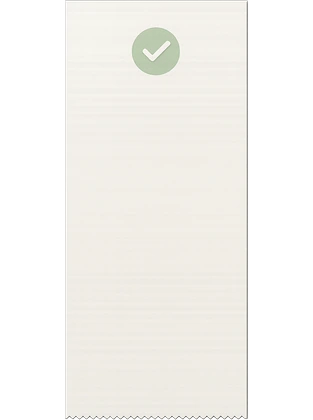
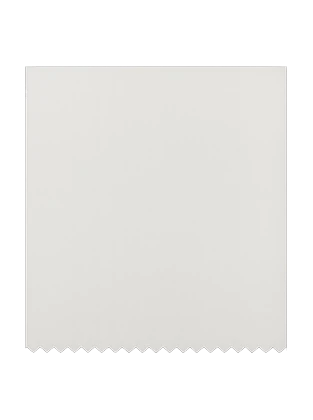
peek: the receipt simpler still — a wider plain white slip with a zigzag tear at the bottom, no stamp and no shadow (none of the renders have one), $40 larger and a simple green check under it, nothing else

Changed region(s): [[0.0575, 0.0, 0.9201, 1.0], [0.4026, 0.0619, 0.5751, 0.1857]]

diff --git a/peek/index.html b/peek/index.html
@@ -2143,7 +2143,7 @@ const POOL = {
   // the call: the EOB you sent, the phone it's on, and the receipt it leaves (see "the call")
   eob:        { name: 'Your EOB',         w: 96, re: null, kind: 'doc' },
   phone:      { name: 'The call',         w: 104, re: null, kind: 'call' },
-  receipt:    { name: 'Result',           w: 124, re: null, kind: 'result' },   // a tall slip: taller than the old sheet so it reads at the same size
+  receipt:    { name: 'Result',           w: 112, re: null, kind: 'result' },
   thermo:     { name: 'Thermometer',      w: 114, re: null, kind: 'thermo' },   // off (John: remove the thermometer) — kept, with re: the timer's regex to bring it back
 };
 const critters = [];
@@ -2165,7 +2165,7 @@ function poolInit() {
   return true;
 }
 const POOL_GAP = 2;   // the invisible margin round every shape in the pile
-const HULLS = {"receipt":[[-0.2179,-0.5],[0.2155,-0.5],[0.2155,0.4952],[0.194,0.4976],[-0.1845,0.4976],[-0.2179,0.4952]],"eob":[[-0.3725,-0.48],[-0.3675,-0.49],[-0.3625,-0.495],[-0.3525,-0.5],[0.3475,-0.5],[0.3625,-0.495],[0.3675,-0.49],[0.3725,-0.48],[0.3725,0.4],[0.3675,0.425],[0.3625,0.44],[0.3525,0.46],[0.3325,0.48],[0.3125,0.49],[0.2975,0.495],[0.2675,0.5],[-0.3375,0.5],[-0.3575,0.495],[-0.3675,0.485],[-0.3725,0.475]],"phone":[[-0.5,-0.1825],[-0.475,-0.2175],[-0.36,-0.3075],[-0.275,-0.3375],[-0.165,-0.3625],[-0.05,-0.3775],[0.145,-0.3775],[0.195,-0.3725],[0.31,-0.3525],[0.385,-0.3325],[0.45,-0.3075],[0.485,-0.2625],[0.5,-0.2125],[0.5,-0.1425],[0.38,0.3025],[0.345,0.3625],[0.3,0.3775],[-0.23,0.3775],[-0.27,0.3725],[-0.465,0.3025],[-0.49,0.2675],[-0.5,0.2075]],"stopwatch":[[-0.31,0.08],[-0.285,-0.01],[-0.095,-0.42],[-0.05,-0.475],[0.01,-0.5],[0.075,-0.5],[0.125,-0.48],[0.155,-0.455],[0.335,-0.22],[0.395,0.095],[0.395,0.17],[0.385,0.225],[0.37,0.27],[0.325,0.35],[0.26,0.415],[0.18,0.485],[0.07,0.495],[-0.065,0.495],[-0.15,0.49],[-0.225,0.475],[-0.3,0.235],[-0.31,0.19]],"cookbook":[[-0.4375,-0.49],[-0.4325,-0.495],[0.1025,-0.5],[0.3125,-0.5],[0.3525,-0.495],[0.3575,0.44],[0.3575,0.46],[0.3375,0.48],[0.3125,0.485],[-0.3725,0.5],[-0.4075,0.5],[-0.4375,0.465]],"map":[[-0.5,0.25],[-0.465,0.035],[-0.415,-0.265],[-0.405,-0.315],[-0.39,-0.335],[-0.01,-0.425],[0.05,-0.425],[0.38,-0.3],[0.405,-0.27],[0.455,0.005],[0.495,0.25],[0.5,0.3],[0.48,0.35],[0.425,0.385],[0.33,0.41],[0.24,0.42],[0.125,0.425],[-0.09,0.425],[-0.215,0.42],[-0.295,0.405],[-0.49,0.31],[-0.5,0.3]],"pail":[[-0.475,-0.11],[-0.44,-0.24],[-0.4,-0.325],[-0.35,-0.375],[-0.245,-0.44],[-0.115,-0.48],[0.06,-0.5],[0.18,-0.49],[0.24,-0.46],[0.385,-0.335],[0.44,-0.265],[0.455,-0.21],[0.475,0.175],[0.46,0.305],[0.41,0.365],[0.33,0.425],[0.215,0.47],[-0.03,0.5],[-0.16,0.475],[-0.27,0.345],[-0.44,0.03],[-0.475,-0.06]],"jellyfish":[[-0.405,-0.105],[-0.31,-0.33],[-0.235,-0.42],[-0.16,-0.47],[-0.085,-0.495],[0.0,-0.5],[0.075,-0.49],[0.17,-0.455],[0.24,-0.405],[0.28,-0.36],[0.32,-0.295],[0.405,-0.105],[0.405,-0.065],[0.36,0.28],[0.33,0.355],[0.23,0.49],[-0.01,0.5],[-0.165,0.475],[-0.21,0.435],[-0.31,0.285],[-0.325,0.245],[-0.41,-0.06]],"sponge":[[-0.435,0.125],[-0.32,-0.33],[-0.305,-0.36],[-0.26,-0.395],[-0.055,-0.49],[0.035,-0.5],[0.075,-0.485],[0.24,-0.335],[0.265,-0.305],[0.36,-0.125],[0.375,-0.085],[0.43,0.1],[0.435,0.185],[0.425,0.36],[0.37,0.42],[0.3,0.455],[0.22,0.48],[0.125,0.5],[0.035,0.495],[-0.26,0.445],[-0.315,0.405],[-0.435,0.17]],"sanddollar":[[-0.49,-0.07],[-0.455,-0.18],[-0.405,-0.275],[-0.31,-0.38],[-0.24,-0.43],[-0.125,-0.475],[-0.015,-0.495],[0.16,-0.475],[0.265,-0.425],[0.38,-0.32],[0.445,-0.22],[0.49,-0.1],[0.5,0.055],[0.485,0.135],[0.43,0.25],[0.295,0.43],[0.25,0.475],[0.145,0.495],[-0.33,0.445],[-0.395,0.42],[-0.48,0.185],[-0.5,0.095]],"kelp":[[-0.2925,-0.235],[-0.1975,-0.385],[-0.1425,-0.465],[-0.1175,-0.485],[0.0175,-0.5],[0.0475,-0.5],[0.2625,-0.435],[0.2775,-0.42],[0.2925,-0.25],[0.2925,-0.2],[0.1725,0.345],[0.1625,0.37],[0.1525,0.385],[0.0775,0.485],[0.0575,0.5],[0.0225,0.5],[0.0025,0.485],[-0.0825,0.375],[-0.0925,0.355],[-0.2825,-0.07],[-0.2875,-0.085],[-0.2925,-0.195]],"shrimp":[[-0.5,-0.3475],[-0.45,-0.4025],[-0.105,-0.4225],[-0.055,-0.4225],[-0.035,-0.4175],[0.04,-0.3875],[0.09,-0.3575],[0.135,-0.3175],[0.49,0.2325],[0.5,0.2525],[0.5,0.2925],[0.46,0.3625],[0.43,0.3825],[0.395,0.3925],[0.36,0.3975],[0.05,0.4225],[-0.115,0.4225],[-0.175,0.4075],[-0.235,0.3725],[-0.26,0.3425],[-0.49,-0.2775],[-0.5,-0.3125]],"chiton":[[-0.495,0.065],[-0.465,-0.025],[-0.395,-0.15],[-0.32,-0.245],[-0.22,-0.335],[-0.1,-0.42],[0.03,-0.475],[0.085,-0.485],[0.195,-0.48],[0.295,-0.45],[0.35,-0.42],[0.405,-0.37],[0.44,-0.32],[0.495,-0.19],[0.495,-0.085],[0.46,0.2],[0.415,0.27],[0.13,0.47],[0.06,0.485],[-0.415,0.38],[-0.47,0.32],[-0.5,0.13]],"snail":[[-0.49,-0.065],[-0.48,-0.145],[-0.445,-0.25],[-0.37,-0.355],[-0.305,-0.405],[-0.245,-0.435],[-0.145,-0.46],[-0.065,-0.46],[0.045,-0.43],[0.1,-0.4],[0.49,-0.14],[0.5,-0.09],[0.485,0.25],[0.455,0.325],[0.36,0.42],[0.31,0.445],[0.19,0.46],[-0.135,0.45],[-0.32,0.41],[-0.41,0.38],[-0.48,0.34],[-0.495,0.31]],"limpet":[[-0.5,0.09],[-0.465,0.025],[-0.305,-0.19],[-0.165,-0.36],[-0.09,-0.435],[-0.015,-0.465],[0.02,-0.465],[0.075,-0.435],[0.135,-0.38],[0.22,-0.285],[0.475,0.04],[0.5,0.09],[0.495,0.14],[0.42,0.33],[0.375,0.39],[0.325,0.415],[0.215,0.445],[-0.045,0.465],[-0.13,0.45],[-0.34,0.315],[-0.38,0.28],[-0.475,0.17]],"barnacle":[[-0.4375,0.13],[-0.4125,0.035],[-0.2875,-0.33],[-0.2575,-0.37],[-0.1175,-0.47],[-0.0325,-0.5],[0.0225,-0.475],[0.2775,-0.32],[0.3575,-0.245],[0.3825,-0.195],[0.4275,-0.025],[0.4425,0.065],[0.4375,0.2],[0.3825,0.365],[0.2975,0.455],[0.2125,0.49],[0.1475,0.5],[0.0375,0.495],[-0.1875,0.465],[-0.2925,0.425],[-0.4075,0.315],[-0.4375,0.24]],"mussel":[[-0.495,0.055],[-0.45,-0.065],[-0.32,-0.23],[-0.18,-0.36],[-0.085,-0.425],[-0.01,-0.465],[0.12,-0.5],[0.21,-0.495],[0.275,-0.445],[0.485,-0.03],[0.49,-0.015],[0.495,0.25],[0.465,0.325],[0.34,0.455],[0.27,0.485],[0.15,0.5],[-0.01,0.485],[-0.155,0.455],[-0.25,0.42],[-0.39,0.345],[-0.435,0.295],[-0.495,0.115]],"recipe":[[-0.3675,-0.455],[-0.3575,-0.475],[-0.3475,-0.485],[-0.3175,-0.5],[0.3175,-0.5],[0.3375,-0.49],[0.3575,-0.47],[0.3675,-0.45],[0.3675,0.45],[0.3525,0.48],[0.3425,0.49],[0.3325,0.495],[0.3175,0.5],[-0.3175,0.5],[-0.3325,0.495],[-0.3425,0.49],[-0.3575,0.475],[-0.3675,0.455]],"injector":[[-0.3,-0.25],[-0.285,-0.275],[-0.235,-0.335],[-0.205,-0.365],[-0.04,-0.49],[0.0,-0.5],[0.15,-0.5],[0.19,-0.49],[0.22,-0.46],[0.3,-0.205],[0.3,-0.12],[0.29,0.145],[0.23,0.435],[0.215,0.46],[0.175,0.48],[0.105,0.5],[0.045,0.5],[0.025,0.49],[-0.045,0.37],[-0.06,0.34],[-0.145,0.155],[-0.3,-0.215]],"camshaft":[[-0.5,-0.02],[-0.44,-0.13],[-0.41,-0.15],[-0.14,-0.195],[0.34,-0.27],[0.39,-0.27],[0.41,-0.26],[0.45,-0.22],[0.48,-0.165],[0.5,-0.09],[0.5,0.0],[0.475,0.07],[0.415,0.14],[0.225,0.195],[-0.05,0.245],[-0.29,0.27],[-0.33,0.27],[-0.375,0.255],[-0.41,0.23],[-0.465,0.16],[-0.485,0.12],[-0.5,0.065]],"valve":[[-0.1675,0.405],[-0.0475,-0.495],[-0.0425,-0.5],[0.0375,-0.5],[0.0425,-0.495],[0.1675,0.425],[0.1675,0.44],[0.1625,0.45],[0.1475,0.465],[0.1325,0.475],[0.1225,0.48],[0.0775,0.495],[0.0475,0.5],[-0.0525,0.5],[-0.0775,0.495],[-0.0975,0.49],[-0.1125,0.485],[-0.1425,0.47],[-0.1625,0.45],[-0.1675,0.44]],"crankshaft":[[-0.5,-0.035],[-0.49,-0.065],[-0.47,-0.09],[-0.18,-0.25],[0.05,-0.25],[0.075,-0.24],[0.49,-0.005],[0.5,0.005],[0.5,0.065],[0.49,0.09],[0.305,0.225],[0.295,0.23],[0.255,0.24],[0.185,0.25],[0.115,0.25],[-0.215,0.225],[-0.32,0.205],[-0.38,0.19],[-0.405,0.18],[-0.41,0.175],[-0.49,0.05],[-0.5,0.025]],"sparkplug":[[-0.205,0.005],[-0.065,-0.465],[-0.055,-0.49],[-0.04,-0.5],[0.04,-0.5],[0.06,-0.48],[0.065,-0.465],[0.205,0.005],[0.205,0.095],[0.19,0.215],[0.12,0.435],[0.115,0.44],[0.03,0.485],[0.02,0.49],[0.0,0.495],[-0.03,0.5],[-0.095,0.5],[-0.115,0.495],[-0.13,0.49],[-0.14,0.485],[-0.19,0.215],[-0.205,0.095]],"piston":[[-0.25,-0.405],[-0.24,-0.455],[-0.225,-0.47],[-0.185,-0.485],[-0.09,-0.5],[0.09,-0.5],[0.185,-0.485],[0.215,-0.475],[0.24,-0.455],[0.25,-0.405],[0.25,-0.32],[0.245,-0.13],[0.21,0.385],[0.18,0.49],[0.16,0.5],[0.0,0.495],[-0.165,0.47],[-0.195,0.455],[-0.215,0.375],[-0.22,0.335],[-0.245,-0.125],[-0.25,-0.32]],"groceries":[[-0.41,-0.49],[-0.4,-0.5],[0.365,-0.5],[0.375,-0.495],[0.38,-0.485],[0.405,0.46],[0.405,0.47],[0.395,0.48],[0.375,0.49],[0.355,0.495],[0.305,0.5],[-0.32,0.5],[-0.36,0.495],[-0.38,0.48],[-0.4,0.46],[-0.405,0.45],[-0.41,0.435]],"pin":[[-0.335,-0.225],[-0.315,-0.3],[-0.29,-0.35],[-0.225,-0.425],[-0.175,-0.46],[-0.105,-0.49],[-0.06,-0.5],[0.055,-0.5],[0.1,-0.49],[0.165,-0.465],[0.24,-0.41],[0.275,-0.37],[0.315,-0.3],[0.335,-0.225],[0.335,-0.13],[0.31,-0.035],[0.115,0.49],[0.03,0.5],[-0.01,0.5],[-0.27,0.05],[-0.31,-0.035],[-0.335,-0.13]],"calendar":[[-0.38,-0.295],[-0.375,-0.315],[-0.365,-0.335],[-0.355,-0.35],[-0.345,-0.36],[-0.2,-0.5],[0.17,-0.5],[0.33,-0.335],[0.34,-0.315],[0.345,-0.29],[0.36,0.465],[0.36,0.485],[0.32,0.495],[0.26,0.5],[-0.165,0.5],[-0.295,0.495],[-0.32,0.485],[-0.335,0.475],[-0.35,0.46],[-0.365,0.43],[-0.37,0.365],[-0.38,-0.175]],"clipboard":[[-0.34,-0.34],[-0.33,-0.36],[-0.295,-0.395],[-0.285,-0.4],[-0.03,-0.5],[0.03,-0.5],[0.285,-0.4],[0.31,-0.385],[0.32,-0.375],[0.33,-0.36],[0.34,-0.34],[0.34,0.43],[0.335,0.445],[0.325,0.46],[0.3,0.485],[0.28,0.495],[0.265,0.5],[-0.265,0.5],[-0.28,0.495],[-0.3,0.485],[-0.325,0.46],[-0.34,0.43]],"thermo":[[-0.345,-0.21],[-0.31,-0.32],[-0.27,-0.38],[-0.225,-0.425],[-0.165,-0.465],[-0.13,-0.48],[-0.05,-0.5],[0.08,-0.495],[0.165,-0.465],[0.225,-0.425],[0.275,-0.375],[0.305,-0.33],[0.335,-0.26],[0.345,-0.21],[0.345,-0.11],[0.325,-0.03],[0.295,0.03],[0.01,0.495],[-0.005,0.5],[-0.305,0.01],[-0.325,-0.035],[-0.345,-0.115]],"anemone":[[-0.5,-0.1625],[-0.445,-0.3125],[-0.335,-0.4225],[-0.16,-0.4925],[-0.03,-0.4925],[0.2,-0.4875],[0.375,-0.3875],[0.39,-0.3725],[0.475,-0.2025],[0.5,-0.1025],[0.5,-0.0725],[0.47,0.0275],[0.36,0.3175],[0.3,0.3925],[0.22,0.4425],[0.145,0.4625],[0.035,0.4725],[-0.07,0.4725],[-0.175,0.4625],[-0.305,0.4325],[-0.33,0.4075],[-0.48,-0.0075]],"starfish":[[-0.4575,-0.215],[-0.4375,-0.24],[-0.4125,-0.255],[-0.0075,-0.495],[0.0075,-0.5],[0.0275,-0.5],[0.0575,-0.49],[0.4325,-0.17],[0.4525,-0.15],[0.4625,-0.125],[0.4625,-0.095],[0.3075,0.445],[0.2825,0.47],[0.2675,0.48],[0.2475,0.485],[0.1825,0.485],[-0.3375,0.405],[-0.3725,0.395],[-0.3925,0.38],[-0.4225,0.35],[-0.4275,0.34],[-0.4625,-0.185]],"crab":[[-0.485,-0.095],[-0.475,-0.17],[-0.44,-0.275],[-0.345,-0.4],[-0.26,-0.45],[-0.115,-0.49],[-0.04,-0.49],[0.04,-0.47],[0.155,-0.395],[0.31,-0.245],[0.325,-0.22],[0.47,0.16],[0.48,0.285],[0.445,0.365],[0.41,0.4],[0.35,0.425],[0.075,0.49],[0.015,0.495],[-0.205,0.45],[-0.33,0.4],[-0.36,0.37],[-0.465,0.05]],"nudibranch":[[-0.5,0.09],[-0.405,-0.335],[-0.385,-0.355],[-0.09,-0.415],[0.065,-0.435],[0.085,-0.435],[0.23,-0.385],[0.355,-0.325],[0.365,-0.315],[0.41,-0.215],[0.5,0.08],[0.49,0.12],[0.36,0.3],[0.32,0.335],[0.0,0.41],[-0.065,0.415],[-0.17,0.4],[-0.305,0.37],[-0.34,0.355],[-0.35,0.345],[-0.49,0.14],[-0.5,0.11]],"urchin":[[-0.4975,-0.105],[-0.4375,-0.245],[-0.3075,-0.4],[-0.2925,-0.415],[-0.1475,-0.49],[0.0675,-0.5],[0.2275,-0.44],[0.3575,-0.345],[0.3675,-0.335],[0.4625,-0.165],[0.4975,0.075],[0.4975,0.095],[0.3775,0.335],[0.2625,0.425],[0.2275,0.435],[-0.0525,0.465],[-0.1275,0.47],[-0.2075,0.47],[-0.3125,0.45],[-0.3675,0.43],[-0.4125,0.395],[-0.4925,0.08]],"cucumber":[[-0.46,-0.1275],[-0.425,-0.1875],[-0.34,-0.2575],[-0.175,-0.3075],[0.02,-0.3075],[0.12,-0.2925],[0.275,-0.2375],[0.395,-0.1525],[0.405,-0.1425],[0.46,-0.0575],[0.49,0.0175],[0.5,0.0875],[0.495,0.1175],[0.43,0.2025],[0.4,0.2175],[0.33,0.2325],[-0.08,0.2825],[-0.19,0.2825],[-0.345,0.2675],[-0.405,0.2575],[-0.43,0.2425],[-0.455,-0.0425]],"sculpin":[[-0.485,0.0675],[-0.44,-0.0425],[-0.385,-0.1225],[-0.34,-0.1675],[-0.13,-0.3325],[-0.07,-0.3525],[0.405,-0.2375],[0.45,-0.2075],[0.48,-0.1225],[0.48,-0.0225],[0.465,0.0375],[0.435,0.0925],[0.195,0.3375],[0.16,0.3475],[0.075,0.3525],[0.03,0.3475],[-0.255,0.2975],[-0.3,0.2875],[-0.39,0.2525],[-0.43,0.2275],[-0.475,0.1725],[-0.49,0.1375]],"octopus":[[-0.495,0.1075],[-0.41,-0.0675],[-0.27,-0.3225],[-0.205,-0.3975],[-0.135,-0.4375],[-0.085,-0.4525],[0.0,-0.4575],[0.08,-0.4425],[0.19,-0.3875],[0.235,-0.3375],[0.4,-0.0275],[0.41,-0.0025],[0.435,0.1575],[0.435,0.3125],[0.42,0.3375],[0.335,0.3825],[0.24,0.4075],[-0.13,0.4325],[-0.2,0.4225],[-0.4,0.2925],[-0.455,0.2425],[-0.485,0.1925]],"timer":[[-0.4525,-0.105],[-0.4375,-0.185],[-0.4025,-0.275],[-0.3675,-0.33],[-0.3075,-0.395],[-0.2175,-0.455],[-0.1375,-0.485],[-0.0575,-0.5],[0.0625,-0.5],[0.1375,-0.485],[0.2175,-0.455],[0.3075,-0.395],[0.3825,-0.31],[0.4175,-0.245],[0.4525,-0.115],[0.4525,0.35],[0.4325,0.395],[0.3325,0.495],[-0.3375,0.495],[-0.3625,0.485],[-0.4425,0.38],[-0.4525,0.35]]};   // each plush's outline: its picture's convex hull, as fractions of the square element from its centre
+const HULLS = {"receipt":[[-0.3131,-0.3429],[0.3083,-0.3429],[0.3083,0.3286],[0.294,0.3381],[-0.294,0.3381],[-0.2988,0.3357],[-0.3131,0.3262]],"eob":[[-0.3725,-0.48],[-0.3675,-0.49],[-0.3625,-0.495],[-0.3525,-0.5],[0.3475,-0.5],[0.3625,-0.495],[0.3675,-0.49],[0.3725,-0.48],[0.3725,0.4],[0.3675,0.425],[0.3625,0.44],[0.3525,0.46],[0.3325,0.48],[0.3125,0.49],[0.2975,0.495],[0.2675,0.5],[-0.3375,0.5],[-0.3575,0.495],[-0.3675,0.485],[-0.3725,0.475]],"phone":[[-0.5,-0.1825],[-0.475,-0.2175],[-0.36,-0.3075],[-0.275,-0.3375],[-0.165,-0.3625],[-0.05,-0.3775],[0.145,-0.3775],[0.195,-0.3725],[0.31,-0.3525],[0.385,-0.3325],[0.45,-0.3075],[0.485,-0.2625],[0.5,-0.2125],[0.5,-0.1425],[0.38,0.3025],[0.345,0.3625],[0.3,0.3775],[-0.23,0.3775],[-0.27,0.3725],[-0.465,0.3025],[-0.49,0.2675],[-0.5,0.2075]],"stopwatch":[[-0.31,0.08],[-0.285,-0.01],[-0.095,-0.42],[-0.05,-0.475],[0.01,-0.5],[0.075,-0.5],[0.125,-0.48],[0.155,-0.455],[0.335,-0.22],[0.395,0.095],[0.395,0.17],[0.385,0.225],[0.37,0.27],[0.325,0.35],[0.26,0.415],[0.18,0.485],[0.07,0.495],[-0.065,0.495],[-0.15,0.49],[-0.225,0.475],[-0.3,0.235],[-0.31,0.19]],"cookbook":[[-0.4375,-0.49],[-0.4325,-0.495],[0.1025,-0.5],[0.3125,-0.5],[0.3525,-0.495],[0.3575,0.44],[0.3575,0.46],[0.3375,0.48],[0.3125,0.485],[-0.3725,0.5],[-0.4075,0.5],[-0.4375,0.465]],"map":[[-0.5,0.25],[-0.465,0.035],[-0.415,-0.265],[-0.405,-0.315],[-0.39,-0.335],[-0.01,-0.425],[0.05,-0.425],[0.38,-0.3],[0.405,-0.27],[0.455,0.005],[0.495,0.25],[0.5,0.3],[0.48,0.35],[0.425,0.385],[0.33,0.41],[0.24,0.42],[0.125,0.425],[-0.09,0.425],[-0.215,0.42],[-0.295,0.405],[-0.49,0.31],[-0.5,0.3]],"pail":[[-0.475,-0.11],[-0.44,-0.24],[-0.4,-0.325],[-0.35,-0.375],[-0.245,-0.44],[-0.115,-0.48],[0.06,-0.5],[0.18,-0.49],[0.24,-0.46],[0.385,-0.335],[0.44,-0.265],[0.455,-0.21],[0.475,0.175],[0.46,0.305],[0.41,0.365],[0.33,0.425],[0.215,0.47],[-0.03,0.5],[-0.16,0.475],[-0.27,0.345],[-0.44,0.03],[-0.475,-0.06]],"jellyfish":[[-0.405,-0.105],[-0.31,-0.33],[-0.235,-0.42],[-0.16,-0.47],[-0.085,-0.495],[0.0,-0.5],[0.075,-0.49],[0.17,-0.455],[0.24,-0.405],[0.28,-0.36],[0.32,-0.295],[0.405,-0.105],[0.405,-0.065],[0.36,0.28],[0.33,0.355],[0.23,0.49],[-0.01,0.5],[-0.165,0.475],[-0.21,0.435],[-0.31,0.285],[-0.325,0.245],[-0.41,-0.06]],"sponge":[[-0.435,0.125],[-0.32,-0.33],[-0.305,-0.36],[-0.26,-0.395],[-0.055,-0.49],[0.035,-0.5],[0.075,-0.485],[0.24,-0.335],[0.265,-0.305],[0.36,-0.125],[0.375,-0.085],[0.43,0.1],[0.435,0.185],[0.425,0.36],[0.37,0.42],[0.3,0.455],[0.22,0.48],[0.125,0.5],[0.035,0.495],[-0.26,0.445],[-0.315,0.405],[-0.435,0.17]],"sanddollar":[[-0.49,-0.07],[-0.455,-0.18],[-0.405,-0.275],[-0.31,-0.38],[-0.24,-0.43],[-0.125,-0.475],[-0.015,-0.495],[0.16,-0.475],[0.265,-0.425],[0.38,-0.32],[0.445,-0.22],[0.49,-0.1],[0.5,0.055],[0.485,0.135],[0.43,0.25],[0.295,0.43],[0.25,0.475],[0.145,0.495],[-0.33,0.445],[-0.395,0.42],[-0.48,0.185],[-0.5,0.095]],"kelp":[[-0.2925,-0.235],[-0.1975,-0.385],[-0.1425,-0.465],[-0.1175,-0.485],[0.0175,-0.5],[0.0475,-0.5],[0.2625,-0.435],[0.2775,-0.42],[0.2925,-0.25],[0.2925,-0.2],[0.1725,0.345],[0.1625,0.37],[0.1525,0.385],[0.0775,0.485],[0.0575,0.5],[0.0225,0.5],[0.0025,0.485],[-0.0825,0.375],[-0.0925,0.355],[-0.2825,-0.07],[-0.2875,-0.085],[-0.2925,-0.195]],"shrimp":[[-0.5,-0.3475],[-0.45,-0.4025],[-0.105,-0.4225],[-0.055,-0.4225],[-0.035,-0.4175],[0.04,-0.3875],[0.09,-0.3575],[0.135,-0.3175],[0.49,0.2325],[0.5,0.2525],[0.5,0.2925],[0.46,0.3625],[0.43,0.3825],[0.395,0.3925],[0.36,0.3975],[0.05,0.4225],[-0.115,0.4225],[-0.175,0.4075],[-0.235,0.3725],[-0.26,0.3425],[-0.49,-0.2775],[-0.5,-0.3125]],"chiton":[[-0.495,0.065],[-0.465,-0.025],[-0.395,-0.15],[-0.32,-0.245],[-0.22,-0.335],[-0.1,-0.42],[0.03,-0.475],[0.085,-0.485],[0.195,-0.48],[0.295,-0.45],[0.35,-0.42],[0.405,-0.37],[0.44,-0.32],[0.495,-0.19],[0.495,-0.085],[0.46,0.2],[0.415,0.27],[0.13,0.47],[0.06,0.485],[-0.415,0.38],[-0.47,0.32],[-0.5,0.13]],"snail":[[-0.49,-0.065],[-0.48,-0.145],[-0.445,-0.25],[-0.37,-0.355],[-0.305,-0.405],[-0.245,-0.435],[-0.145,-0.46],[-0.065,-0.46],[0.045,-0.43],[0.1,-0.4],[0.49,-0.14],[0.5,-0.09],[0.485,0.25],[0.455,0.325],[0.36,0.42],[0.31,0.445],[0.19,0.46],[-0.135,0.45],[-0.32,0.41],[-0.41,0.38],[-0.48,0.34],[-0.495,0.31]],"limpet":[[-0.5,0.09],[-0.465,0.025],[-0.305,-0.19],[-0.165,-0.36],[-0.09,-0.435],[-0.015,-0.465],[0.02,-0.465],[0.075,-0.435],[0.135,-0.38],[0.22,-0.285],[0.475,0.04],[0.5,0.09],[0.495,0.14],[0.42,0.33],[0.375,0.39],[0.325,0.415],[0.215,0.445],[-0.045,0.465],[-0.13,0.45],[-0.34,0.315],[-0.38,0.28],[-0.475,0.17]],"barnacle":[[-0.4375,0.13],[-0.4125,0.035],[-0.2875,-0.33],[-0.2575,-0.37],[-0.1175,-0.47],[-0.0325,-0.5],[0.0225,-0.475],[0.2775,-0.32],[0.3575,-0.245],[0.3825,-0.195],[0.4275,-0.025],[0.4425,0.065],[0.4375,0.2],[0.3825,0.365],[0.2975,0.455],[0.2125,0.49],[0.1475,0.5],[0.0375,0.495],[-0.1875,0.465],[-0.2925,0.425],[-0.4075,0.315],[-0.4375,0.24]],"mussel":[[-0.495,0.055],[-0.45,-0.065],[-0.32,-0.23],[-0.18,-0.36],[-0.085,-0.425],[-0.01,-0.465],[0.12,-0.5],[0.21,-0.495],[0.275,-0.445],[0.485,-0.03],[0.49,-0.015],[0.495,0.25],[0.465,0.325],[0.34,0.455],[0.27,0.485],[0.15,0.5],[-0.01,0.485],[-0.155,0.455],[-0.25,0.42],[-0.39,0.345],[-0.435,0.295],[-0.495,0.115]],"recipe":[[-0.3675,-0.455],[-0.3575,-0.475],[-0.3475,-0.485],[-0.3175,-0.5],[0.3175,-0.5],[0.3375,-0.49],[0.3575,-0.47],[0.3675,-0.45],[0.3675,0.45],[0.3525,0.48],[0.3425,0.49],[0.3325,0.495],[0.3175,0.5],[-0.3175,0.5],[-0.3325,0.495],[-0.3425,0.49],[-0.3575,0.475],[-0.3675,0.455]],"injector":[[-0.3,-0.25],[-0.285,-0.275],[-0.235,-0.335],[-0.205,-0.365],[-0.04,-0.49],[0.0,-0.5],[0.15,-0.5],[0.19,-0.49],[0.22,-0.46],[0.3,-0.205],[0.3,-0.12],[0.29,0.145],[0.23,0.435],[0.215,0.46],[0.175,0.48],[0.105,0.5],[0.045,0.5],[0.025,0.49],[-0.045,0.37],[-0.06,0.34],[-0.145,0.155],[-0.3,-0.215]],"camshaft":[[-0.5,-0.02],[-0.44,-0.13],[-0.41,-0.15],[-0.14,-0.195],[0.34,-0.27],[0.39,-0.27],[0.41,-0.26],[0.45,-0.22],[0.48,-0.165],[0.5,-0.09],[0.5,0.0],[0.475,0.07],[0.415,0.14],[0.225,0.195],[-0.05,0.245],[-0.29,0.27],[-0.33,0.27],[-0.375,0.255],[-0.41,0.23],[-0.465,0.16],[-0.485,0.12],[-0.5,0.065]],"valve":[[-0.1675,0.405],[-0.0475,-0.495],[-0.0425,-0.5],[0.0375,-0.5],[0.0425,-0.495],[0.1675,0.425],[0.1675,0.44],[0.1625,0.45],[0.1475,0.465],[0.1325,0.475],[0.1225,0.48],[0.0775,0.495],[0.0475,0.5],[-0.0525,0.5],[-0.0775,0.495],[-0.0975,0.49],[-0.1125,0.485],[-0.1425,0.47],[-0.1625,0.45],[-0.1675,0.44]],"crankshaft":[[-0.5,-0.035],[-0.49,-0.065],[-0.47,-0.09],[-0.18,-0.25],[0.05,-0.25],[0.075,-0.24],[0.49,-0.005],[0.5,0.005],[0.5,0.065],[0.49,0.09],[0.305,0.225],[0.295,0.23],[0.255,0.24],[0.185,0.25],[0.115,0.25],[-0.215,0.225],[-0.32,0.205],[-0.38,0.19],[-0.405,0.18],[-0.41,0.175],[-0.49,0.05],[-0.5,0.025]],"sparkplug":[[-0.205,0.005],[-0.065,-0.465],[-0.055,-0.49],[-0.04,-0.5],[0.04,-0.5],[0.06,-0.48],[0.065,-0.465],[0.205,0.005],[0.205,0.095],[0.19,0.215],[0.12,0.435],[0.115,0.44],[0.03,0.485],[0.02,0.49],[0.0,0.495],[-0.03,0.5],[-0.095,0.5],[-0.115,0.495],[-0.13,0.49],[-0.14,0.485],[-0.19,0.215],[-0.205,0.095]],"piston":[[-0.25,-0.405],[-0.24,-0.455],[-0.225,-0.47],[-0.185,-0.485],[-0.09,-0.5],[0.09,-0.5],[0.185,-0.485],[0.215,-0.475],[0.24,-0.455],[0.25,-0.405],[0.25,-0.32],[0.245,-0.13],[0.21,0.385],[0.18,0.49],[0.16,0.5],[0.0,0.495],[-0.165,0.47],[-0.195,0.455],[-0.215,0.375],[-0.22,0.335],[-0.245,-0.125],[-0.25,-0.32]],"groceries":[[-0.41,-0.49],[-0.4,-0.5],[0.365,-0.5],[0.375,-0.495],[0.38,-0.485],[0.405,0.46],[0.405,0.47],[0.395,0.48],[0.375,0.49],[0.355,0.495],[0.305,0.5],[-0.32,0.5],[-0.36,0.495],[-0.38,0.48],[-0.4,0.46],[-0.405,0.45],[-0.41,0.435]],"pin":[[-0.335,-0.225],[-0.315,-0.3],[-0.29,-0.35],[-0.225,-0.425],[-0.175,-0.46],[-0.105,-0.49],[-0.06,-0.5],[0.055,-0.5],[0.1,-0.49],[0.165,-0.465],[0.24,-0.41],[0.275,-0.37],[0.315,-0.3],[0.335,-0.225],[0.335,-0.13],[0.31,-0.035],[0.115,0.49],[0.03,0.5],[-0.01,0.5],[-0.27,0.05],[-0.31,-0.035],[-0.335,-0.13]],"calendar":[[-0.38,-0.295],[-0.375,-0.315],[-0.365,-0.335],[-0.355,-0.35],[-0.345,-0.36],[-0.2,-0.5],[0.17,-0.5],[0.33,-0.335],[0.34,-0.315],[0.345,-0.29],[0.36,0.465],[0.36,0.485],[0.32,0.495],[0.26,0.5],[-0.165,0.5],[-0.295,0.495],[-0.32,0.485],[-0.335,0.475],[-0.35,0.46],[-0.365,0.43],[-0.37,0.365],[-0.38,-0.175]],"clipboard":[[-0.34,-0.34],[-0.33,-0.36],[-0.295,-0.395],[-0.285,-0.4],[-0.03,-0.5],[0.03,-0.5],[0.285,-0.4],[0.31,-0.385],[0.32,-0.375],[0.33,-0.36],[0.34,-0.34],[0.34,0.43],[0.335,0.445],[0.325,0.46],[0.3,0.485],[0.28,0.495],[0.265,0.5],[-0.265,0.5],[-0.28,0.495],[-0.3,0.485],[-0.325,0.46],[-0.34,0.43]],"thermo":[[-0.345,-0.21],[-0.31,-0.32],[-0.27,-0.38],[-0.225,-0.425],[-0.165,-0.465],[-0.13,-0.48],[-0.05,-0.5],[0.08,-0.495],[0.165,-0.465],[0.225,-0.425],[0.275,-0.375],[0.305,-0.33],[0.335,-0.26],[0.345,-0.21],[0.345,-0.11],[0.325,-0.03],[0.295,0.03],[0.01,0.495],[-0.005,0.5],[-0.305,0.01],[-0.325,-0.035],[-0.345,-0.115]],"anemone":[[-0.5,-0.1625],[-0.445,-0.3125],[-0.335,-0.4225],[-0.16,-0.4925],[-0.03,-0.4925],[0.2,-0.4875],[0.375,-0.3875],[0.39,-0.3725],[0.475,-0.2025],[0.5,-0.1025],[0.5,-0.0725],[0.47,0.0275],[0.36,0.3175],[0.3,0.3925],[0.22,0.4425],[0.145,0.4625],[0.035,0.4725],[-0.07,0.4725],[-0.175,0.4625],[-0.305,0.4325],[-0.33,0.4075],[-0.48,-0.0075]],"starfish":[[-0.4575,-0.215],[-0.4375,-0.24],[-0.4125,-0.255],[-0.0075,-0.495],[0.0075,-0.5],[0.0275,-0.5],[0.0575,-0.49],[0.4325,-0.17],[0.4525,-0.15],[0.4625,-0.125],[0.4625,-0.095],[0.3075,0.445],[0.2825,0.47],[0.2675,0.48],[0.2475,0.485],[0.1825,0.485],[-0.3375,0.405],[-0.3725,0.395],[-0.3925,0.38],[-0.4225,0.35],[-0.4275,0.34],[-0.4625,-0.185]],"crab":[[-0.485,-0.095],[-0.475,-0.17],[-0.44,-0.275],[-0.345,-0.4],[-0.26,-0.45],[-0.115,-0.49],[-0.04,-0.49],[0.04,-0.47],[0.155,-0.395],[0.31,-0.245],[0.325,-0.22],[0.47,0.16],[0.48,0.285],[0.445,0.365],[0.41,0.4],[0.35,0.425],[0.075,0.49],[0.015,0.495],[-0.205,0.45],[-0.33,0.4],[-0.36,0.37],[-0.465,0.05]],"nudibranch":[[-0.5,0.09],[-0.405,-0.335],[-0.385,-0.355],[-0.09,-0.415],[0.065,-0.435],[0.085,-0.435],[0.23,-0.385],[0.355,-0.325],[0.365,-0.315],[0.41,-0.215],[0.5,0.08],[0.49,0.12],[0.36,0.3],[0.32,0.335],[0.0,0.41],[-0.065,0.415],[-0.17,0.4],[-0.305,0.37],[-0.34,0.355],[-0.35,0.345],[-0.49,0.14],[-0.5,0.11]],"urchin":[[-0.4975,-0.105],[-0.4375,-0.245],[-0.3075,-0.4],[-0.2925,-0.415],[-0.1475,-0.49],[0.0675,-0.5],[0.2275,-0.44],[0.3575,-0.345],[0.3675,-0.335],[0.4625,-0.165],[0.4975,0.075],[0.4975,0.095],[0.3775,0.335],[0.2625,0.425],[0.2275,0.435],[-0.0525,0.465],[-0.1275,0.47],[-0.2075,0.47],[-0.3125,0.45],[-0.3675,0.43],[-0.4125,0.395],[-0.4925,0.08]],"cucumber":[[-0.46,-0.1275],[-0.425,-0.1875],[-0.34,-0.2575],[-0.175,-0.3075],[0.02,-0.3075],[0.12,-0.2925],[0.275,-0.2375],[0.395,-0.1525],[0.405,-0.1425],[0.46,-0.0575],[0.49,0.0175],[0.5,0.0875],[0.495,0.1175],[0.43,0.2025],[0.4,0.2175],[0.33,0.2325],[-0.08,0.2825],[-0.19,0.2825],[-0.345,0.2675],[-0.405,0.2575],[-0.43,0.2425],[-0.455,-0.0425]],"sculpin":[[-0.485,0.0675],[-0.44,-0.0425],[-0.385,-0.1225],[-0.34,-0.1675],[-0.13,-0.3325],[-0.07,-0.3525],[0.405,-0.2375],[0.45,-0.2075],[0.48,-0.1225],[0.48,-0.0225],[0.465,0.0375],[0.435,0.0925],[0.195,0.3375],[0.16,0.3475],[0.075,0.3525],[0.03,0.3475],[-0.255,0.2975],[-0.3,0.2875],[-0.39,0.2525],[-0.43,0.2275],[-0.475,0.1725],[-0.49,0.1375]],"octopus":[[-0.495,0.1075],[-0.41,-0.0675],[-0.27,-0.3225],[-0.205,-0.3975],[-0.135,-0.4375],[-0.085,-0.4525],[0.0,-0.4575],[0.08,-0.4425],[0.19,-0.3875],[0.235,-0.3375],[0.4,-0.0275],[0.41,-0.0025],[0.435,0.1575],[0.435,0.3125],[0.42,0.3375],[0.335,0.3825],[0.24,0.4075],[-0.13,0.4325],[-0.2,0.4225],[-0.4,0.2925],[-0.455,0.2425],[-0.485,0.1925]],"timer":[[-0.4525,-0.105],[-0.4375,-0.185],[-0.4025,-0.275],[-0.3675,-0.33],[-0.3075,-0.395],[-0.2175,-0.455],[-0.1375,-0.485],[-0.0575,-0.5],[0.0625,-0.5],[0.1375,-0.485],[0.2175,-0.455],[0.3075,-0.395],[0.3825,-0.31],[0.4175,-0.245],[0.4525,-0.115],[0.4525,0.35],[0.4325,0.395],[0.3325,0.495],[-0.3375,0.495],[-0.3625,0.485],[-0.4425,0.38],[-0.4525,0.35]]};   // each plush's outline: its picture's convex hull, as fractions of the square element from its centre
 const POOL_PAD = 8;   // the pile keeps 8px off the left edge and 8px above the chat box
 function poolWallsBuild() {
   const { Bodies, Composite } = Matter, W = innerWidth, H = innerHeight, t = 200;
@@ -3043,7 +3043,7 @@ function paintWatch() {
    in: what you owe now, the reference number, what they agreed, and a follow-up that goes into Calendar.
    All made up: Larkspur Health, Mission Bay Dermatology, Dr. Okafor, Denise, a 555 number. Dates hang off today. */
 const INS_RE = /\bdispute\b[\s\S]*\b(insurance|insurer|claim)\b|\b(insurance|insurer)\b[\s\S]*\bdispute\b/i;
-const EOBPAPER = { x: .1474, y: .02, w: .7052, h: .9 }, RECEIPT = { x: .24, y: .22, w: .55, h: .5 };   // (the slip redrawn 2026-10-06: a tall plain white receipt, one sage stamp, nothing else — John: simpler, beautiful)   // the sheet, and the receipt's blank paper under its stamp, on eob.webp / receipt.webp
+const EOBPAPER = { x: .1474, y: .02, w: .7052, h: .9 }, RECEIPT = { x: .14, y: .26, w: .72, h: .48 };   // (the slip redrawn 2026-10-06, twice: now a wider plain white slip, a zigzag tear at the bottom, no stamp, no shadow — John: simpler; $40 and a check, nothing else)   // the sheet, and the receipt's blank paper under its stamp, on eob.webp / receipt.webp
 let ins = null;   // the demo in this chat: { stage, checked, paid, call }
 const insDates = () => {
   const day = 864e5, now = new Date(); now.setHours(12, 0, 0, 0);
@@ -3107,10 +3107,10 @@ function eobMini() {
 // The receipt: what you owe now, under the green stamp
 function receiptMini() {
   const R = RECEIPT;
-  // only the two numbers on the paper: the $340 struck, small and grey, and the $40 you owe — no label, no reference (John, 2026-10-06: simpler)
-  return `<svg viewBox="0 0 100 122" style="position:absolute;left:${R.x * 100}%;top:${R.y * 100}%;width:${R.w * 100}%;height:${R.h * 100}%;pointer-events:none"><g font-family="'Sofia Sans Condensed', system-ui, sans-serif" text-anchor="middle" fill="#1d1d1c">
-    <text x="50" y="20" font-size="13" fill="#b3b1ab">$340</text><rect x="36" y="15.4" width="28" height="1.3" fill="#e5483a"/>
-    <text x="50" y="58" font-size="34" font-weight="600">$40</text></g></svg>`;
+  // on the paper: $40, and a simple check under it — nothing else (John, 2026-10-06)
+  return `<svg viewBox="0 0 100 90" style="position:absolute;left:${R.x * 100}%;top:${R.y * 100}%;width:${R.w * 100}%;height:${R.h * 100}%;pointer-events:none">
+    <text x="50" y="44" font-family="'Sofia Sans Condensed', system-ui, sans-serif" font-size="44" font-weight="600" text-anchor="middle" fill="#1d1d1c">$40</text>
+    <path d="M38 64l8 8 16-17" fill="none" stroke="#6f9a5b" stroke-width="4" stroke-linecap="round" stroke-linejoin="round"/></svg>`;
 }
 
 // what Claude says, in the demo's chat
